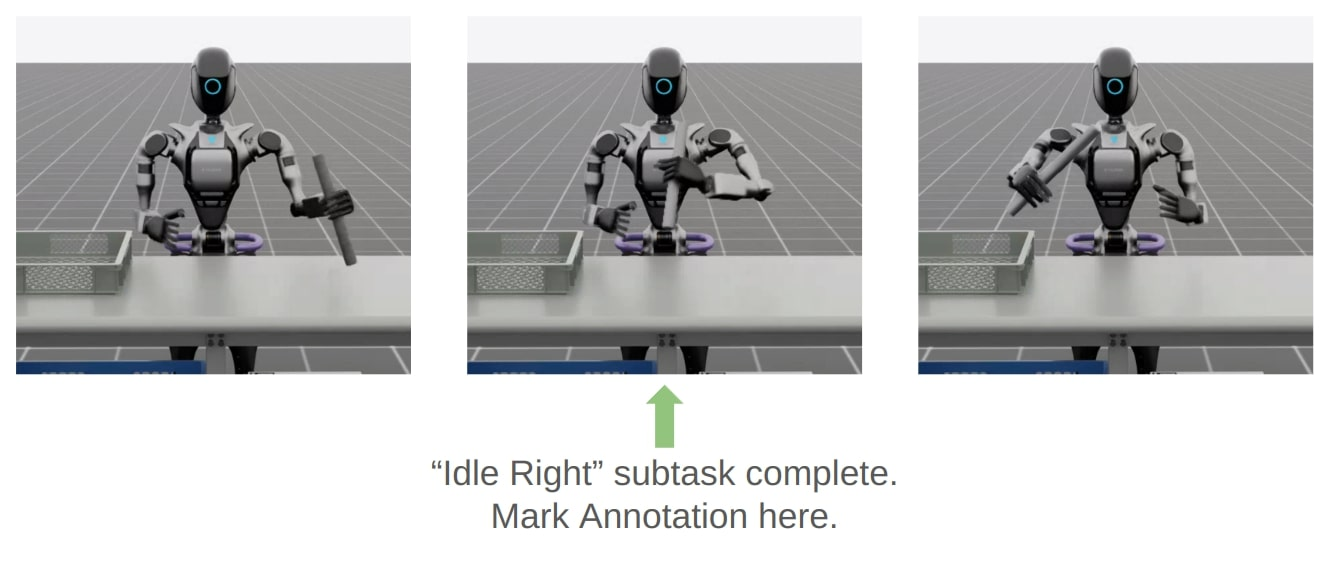
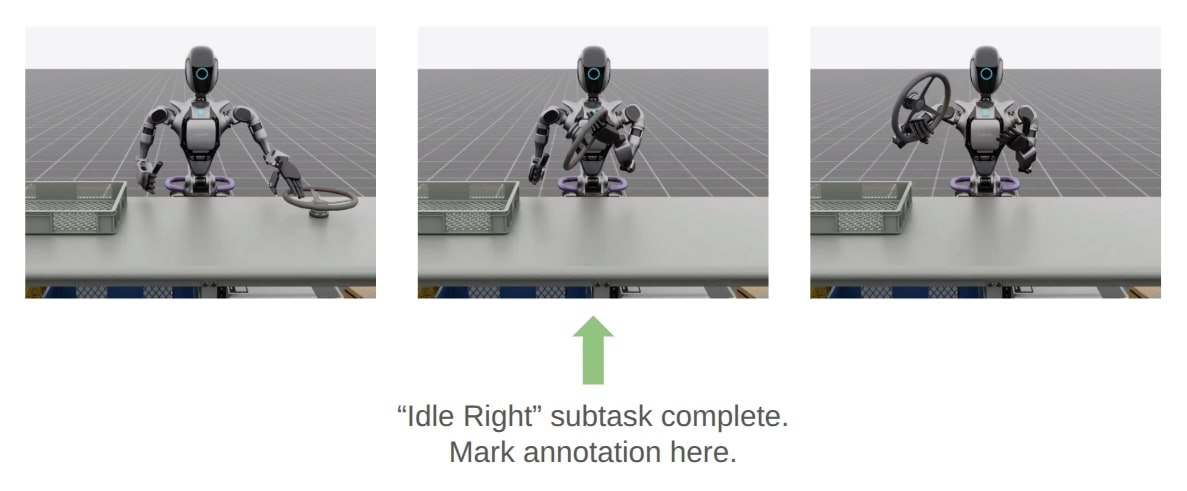
Updates pick place env to use steering wheel asset (#447)
<!--
Thank you for your interest in sending a pull request. Please make sure
to check the contribution guidelines.

Link:
https://isaac-sim.github.io/IsaacLab/main/source/refs/contributing.html
-->

This change updates the Isaac-PickPlace-GR1T2-Abs-v0 env to use a
steering wheel asset instead of a metal rod. The steering wheel asset is
easier to grasp.

Changes:

1. Update Isaac-PickPlace-GR1T2-Abs-v0 to use steering wheel asset
2. Update Mimic docs to reflect the change

Fixes # (issue)

Fixes poor graspability of the object once it falls in the
Isaac-PickPlace-GR1T2-Abs-v0 env.

<!-- As you go through the list, delete the ones that are not
applicable. -->

- New feature (non-breaking change which adds functionality)
- This change requires a documentation update

- [x] I have run the [`pre-commit` checks](https://pre-commit.com/) with
`./isaaclab.sh --format`
- [x] I have made corresponding changes to the documentation
- [x] My changes generate no new warnings
- [ ] I have added tests that prove my fix is effective or that my
feature works
- [ ] I have updated the changelog and the corresponding version in the
extension's `config/extension.toml` file
- [ ] I have added my name to the `CONTRIBUTORS.md` or my name already
exists there

<!--
As you go through the checklist above, you can mark something as done by
putting an x character in it

For example,
- [x] I have done this task
- [ ] I have not done this task
-->

---------

Changed region(s): [[0.0, 0.0611, 0.9975, 0.7026], [0.3117, 0.7943, 0.6858, 0.947]]

diff --git a/source/isaaclab_tasks/isaaclab_tasks/manager_based/manipulation/pick_place/mdp/terminations.py b/source/isaaclab_tasks/isaaclab_tasks/manager_based/manipulation/pick_place/mdp/terminations.py
@@ -26,15 +26,15 @@ if TYPE_CHECKING:
     from isaaclab.envs import ManagerBasedRLEnv
 
 
-def task_done(
+def task_done_pick_place(
     env: ManagerBasedRLEnv,
     object_cfg: SceneEntityCfg = SceneEntityCfg("object"),
     right_wrist_max_x: float = 0.26,
-    min_x: float = 0.30,
-    max_x: float = 0.95,
-    min_y: float = 0.25,
-    max_y: float = 0.66,
-    min_height: float = 1.13,
+    min_x: float = 0.40,
+    max_x: float = 0.85,
+    min_y: float = 0.35,
+    max_y: float = 0.60,
+    max_height: float = 1.10,
     min_vel: float = 0.20,
 ) -> torch.Tensor:
     """Determine if the object placement task is complete.
@@ -53,7 +53,7 @@ def task_done(
         max_x: Maximum x position of the object for task completion.
         min_y: Minimum y position of the object for task completion.
         max_y: Maximum y position of the object for task completion.
-        min_height: Minimum height (z position) of the object for task completion.
+        max_height: Maximum height (z position) of the object for task completion.
         min_vel: Minimum velocity magnitude of the object for task completion.
 
     Returns:
@@ -63,10 +63,10 @@ def task_done(
     object: RigidObject = env.scene[object_cfg.name]
 
     # Extract wheel position relative to environment origin
-    wheel_x = object.data.root_pos_w[:, 0] - env.scene.env_origins[:, 0]
-    wheel_y = object.data.root_pos_w[:, 1] - env.scene.env_origins[:, 1]
-    wheel_height = object.data.root_pos_w[:, 2] - env.scene.env_origins[:, 2]
-    wheel_vel = torch.abs(object.data.root_vel_w)
+    object_x = object.data.root_pos_w[:, 0] - env.scene.env_origins[:, 0]
+    object_y = object.data.root_pos_w[:, 1] - env.scene.env_origins[:, 1]
+    object_height = object.data.root_pos_w[:, 2] - env.scene.env_origins[:, 2]
+    object_vel = torch.abs(object.data.root_vel_w)
 
     # Get right wrist position relative to environment origin
     robot_body_pos_w = env.scene["robot"].data.body_pos_w
@@ -74,15 +74,15 @@ def task_done(
     right_wrist_x = robot_body_pos_w[:, right_eef_idx, 0] - env.scene.env_origins[:, 0]
 
     # Check all success conditions and combine with logical AND
-    done = wheel_x < max_x
-    done = torch.logical_and(done, wheel_x > min_x)
-    done = torch.logical_and(done, wheel_y < max_y)
-    done = torch.logical_and(done, wheel_y > min_y)
-    done = torch.logical_and(done, wheel_height < min_height)
+    done = object_x < max_x
+    done = torch.logical_and(done, object_x > min_x)
+    done = torch.logical_and(done, object_y < max_y)
+    done = torch.logical_and(done, object_y > min_y)
+    done = torch.logical_and(done, object_height < max_height)
     done = torch.logical_and(done, right_wrist_x < right_wrist_max_x)
-    done = torch.logical_and(done, wheel_vel[:, 0] < min_vel)
-    done = torch.logical_and(done, wheel_vel[:, 1] < min_vel)
-    done = torch.logical_and(done, wheel_vel[:, 2] < min_vel)
+    done = torch.logical_and(done, object_vel[:, 0] < min_vel)
+    done = torch.logical_and(done, object_vel[:, 1] < min_vel)
+    done = torch.logical_and(done, object_vel[:, 2] < min_vel)
 
     return done
 
@@ -108,6 +108,7 @@ def task_done_nut_pour(
 
     This function checks whether all success conditions for the task have been met:
     1. The factory nut is in the sorting bowl
+    2. The sorting beaker is in the sorting bin
     3. The sorting bowl is placed on the sorting scale
 
     Args:

diff --git a/source/isaaclab_tasks/isaaclab_tasks/manager_based/manipulation/pick_place/pickplace_gr1t2_env_cfg.py b/source/isaaclab_tasks/isaaclab_tasks/manager_based/manipulation/pick_place/pickplace_gr1t2_env_cfg.py
@@ -31,7 +31,7 @@ from isaaclab.managers import TerminationTermCfg as DoneTerm
 from isaaclab.scene import InteractiveSceneCfg
 from isaaclab.sim.spawners.from_files.from_files_cfg import GroundPlaneCfg, UsdFileCfg
 from isaaclab.utils import configclass
-from isaaclab.utils.assets import ISAAC_NUCLEUS_DIR
+from isaaclab.utils.assets import ISAAC_NUCLEUS_DIR, ISAACLAB_NUCLEUS_DIR
 
 from . import mdp
 
@@ -54,24 +54,13 @@ class ObjectTableSceneCfg(InteractiveSceneCfg):
         ),
     )
 
-    # Object
     object = RigidObjectCfg(
         prim_path="{ENV_REGEX_NS}/Object",
-        init_state=RigidObjectCfg.InitialStateCfg(pos=[-0.35, 0.40, 1.1691], rot=[1, 0, 0, 0]),
-        spawn=sim_utils.CylinderCfg(
-            radius=0.018,
-            height=0.35,
+        init_state=RigidObjectCfg.InitialStateCfg(pos=[-0.45, 0.45, 0.9996], rot=[1, 0, 0, 0]),
+        spawn=UsdFileCfg(
+            usd_path=f"{ISAACLAB_NUCLEUS_DIR}/Mimic/pick_place_task/pick_place_assets/steering_wheel.usd",
+            scale=(0.75, 0.75, 0.75),
             rigid_props=sim_utils.RigidBodyPropertiesCfg(),
-            mass_props=sim_utils.MassPropertiesCfg(mass=0.3),
-            collision_props=sim_utils.CollisionPropertiesCfg(),
-            visual_material=sim_utils.PreviewSurfaceCfg(diffuse_color=(0.15, 0.15, 0.15), metallic=1.0),
-            physics_material=sim_utils.RigidBodyMaterialCfg(
-                friction_combine_mode="max",
-                restitution_combine_mode="min",
-                static_friction=0.9,
-                dynamic_friction=0.9,
-                restitution=0.0,
-            ),
         ),
     )
 
@@ -300,7 +289,7 @@ class TerminationsCfg:
         func=mdp.root_height_below_minimum, params={"minimum_height": 0.5, "asset_cfg": SceneEntityCfg("object")}
     )
 
-    success = DoneTerm(func=mdp.task_done)
+    success = DoneTerm(func=mdp.task_done_pick_place)
 
 
 @configclass
@@ -314,8 +303,8 @@ class EventCfg:
         mode="reset",
         params={
             "pose_range": {
-                "x": [-0.05, 0.0],
-                "y": [0.0, 0.05],
+                "x": [-0.01, 0.01],
+                "y": [-0.01, 0.01],
             },
             "velocity_range": {},
             "asset_cfg": SceneEntityCfg("object"),

diff --git a/docs/source/overview/teleop_imitation.rst b/docs/source/overview/teleop_imitation.rst
@@ -136,7 +136,7 @@ Pre-recorded demonstrations
 ^^^^^^^^^^^^^^^^^^^^^^^^^^^
 
 We provide a pre-recorded ``dataset.hdf5`` containing 10 human demonstrations for ``Isaac-Stack-Cube-Franka-IK-Rel-v0``
-`here <https://omniverse-content-production.s3-us-west-2.amazonaws.com/Assets/Isaac/5.0/Isaac/IsaacLab/Mimic/dataset.hdf5>`_.
+`here <https://omniverse-content-production.s3-us-west-2.amazonaws.com/Assets/Isaac/5.0/Isaac/IsaacLab/Mimic/franka_stack_datasets/dataset.hdf5>`_.
 This dataset may be downloaded and used in the remaining tutorial steps if you do not wish to collect your own demonstrations.
 
 .. note::
@@ -307,10 +307,10 @@ By inferencing using the generated model, we can visualize the results of the po
          --checkpoint /PATH/TO/desired_model_checkpoint.pth
 
 
-Demo: Data Generation and Policy Training for a Humanoid Robot
-~~~~~~~~~~~~~~~~~~~~~~~~~~~~~~~~~~~~~~~~~~~~~~~~~~~~~~~~~~~~~~
+Demo 1: Data Generation and Policy Training for a Humanoid Robot
+~~~~~~~~~~~~~~~~~~~~~~~~~~~~~~~~~~~~~~~~~~~~~~~~~~~~~~~~~~~~~~~~
 
-.. figure:: https://download.isaacsim.omniverse.nvidia.com/isaaclab/images/gr-1_pick_place.gif
+.. figure:: https://download.isaacsim.omniverse.nvidia.com/isaaclab/images/gr-1_steering_wheel_pick_place.gif
    :width: 100%
    :align: center
    :alt: GR-1 humanoid robot performing a pick and place task
@@ -352,11 +352,11 @@ This setup allows Isaac Lab Mimic to interpolate the right hand's trajectory acc
 Therefore, avoid moving the right hand while the left hand picks up the object and brings it to a stable position.
 
 
-.. |good_demo| image:: https://download.isaacsim.omniverse.nvidia.com/isaaclab/images/gr1_pick_place_good_human_demo.gif
+.. |good_demo| image:: https://download.isaacsim.omniverse.nvidia.com/isaaclab/images/gr-1_steering_wheel_pick_place_good_demo.gif
    :width: 49%
    :alt: GR-1 humanoid robot performing a good pick and place demonstration
 
-.. |bad_demo| image:: https://download.isaacsim.omniverse.nvidia.com/isaaclab/images/gr1_pick_place_bad_human_demo.gif
+.. |bad_demo| image:: https://download.isaacsim.omniverse.nvidia.com/isaaclab/images/gr-1_steering_wheel_pick_place_bad_demo.gif
    :width: 49%
    :alt: GR-1 humanoid robot performing a bad pick and place demonstration
 
@@ -459,7 +459,7 @@ Generate the dataset
 ^^^^^^^^^^^^^^^^^^^^
 
 If you skipped the prior collection and annotation step, download the pre-recorded annotated dataset ``dataset_annotated_gr1.hdf5`` from
-`here <https://omniverse-content-production.s3-us-west-2.amazonaws.com/Assets/Isaac/5.0/Isaac/IsaacLab/Mimic/dataset_annotated_gr1.hdf5>`_.
+`here <https://omniverse-content-production.s3-us-west-2.amazonaws.com/Assets/Isaac/5.0/Isaac/IsaacLab/Mimic/pick_place_datasets/dataset_annotated_gr1.hdf5>`_.
 Place the file under ``IsaacLab/datasets`` and run the following command to generate a new dataset with 1000 demonstrations.
 
 .. code:: bash
@@ -499,7 +499,7 @@ Visualize the results of the trained policy by running the following command, us
    --enable_pinocchio \
    --task Isaac-PickPlace-GR1T2-Abs-v0 \
    --num_rollouts 50 \
-   --horizon 250 \
+   --horizon 400 \
    --norm_factor_min <NORM_FACTOR_MIN> \
    --norm_factor_max <NORM_FACTOR_MAX> \
    --checkpoint /PATH/TO/desired_model_checkpoint.pth
@@ -507,7 +507,7 @@ Visualize the results of the trained policy by running the following command, us
 .. note::
    Change the ``NORM_FACTOR`` in the above command with the values generated in the training step.
 
-.. figure:: https://download.isaacsim.omniverse.nvidia.com/isaaclab/images/gr-1_pick_place_policy.gif
+.. figure:: https://download.isaacsim.omniverse.nvidia.com/isaaclab/images/gr-1_steering_wheel_pick_place_policy.gif
    :width: 100%
    :align: center
    :alt: GR-1 humanoid robot performing a pick and place task
@@ -516,8 +516,8 @@ Visualize the results of the trained policy by running the following command, us
    The trained policy performing the pick and place task in Isaac Lab.
 
 
-Demo: Visuomotor Policy for a Humanoid Robot
-~~~~~~~~~~~~~~~~~~~~~~~~~~~~~~~~~~~~~~~~~~~~
+Demo 2: Visuomotor Policy for a Humanoid Robot
+~~~~~~~~~~~~~~~~~~~~~~~~~~~~~~~~~~~~~~~~~~~~~~
 
 Download the Dataset
 ^^^^^^^^^^^^^^^^^^^^
@@ -525,6 +525,52 @@ Download the Dataset
 Download the pre-generated dataset from `here <https://download.isaacsim.omniverse.nvidia.com/isaaclab/dataset/generated_dataset_gr1_nut_pouring.hdf5>`_ and place it under ``IsaacLab/datasets/generated_dataset_gr1_nut_pouring.hdf5``.
 The dataset contains 1000 demonstrations of a humanoid robot performing a pouring/placing task that was
 generated using Isaac Lab Mimic for the ``Isaac-NutPour-GR1T2-Pink-IK-Abs-Mimic-v0`` task.
+
+.. hint::
+
+   If desired, data collection, annotation, and generation can be done using the same commands as the prior examples.
+   **Note that the following commands are only for your reference and are not required for this demo.**
+
+   To collect demonstrations:
+
+   .. code:: bash
+
+      ./isaaclab.sh -p scripts/tools/record_demos.py \
+      --device cpu \
+      --task Isaac-NutPour-GR1T2-Pink-IK-Abs-v0 \
+      --teleop_device handtracking \
+      --dataset_file ./datasets/dataset_gr1_nut_pouring.hdf5 \
+      --num_demos 5 --enable_pinocchio
+
+   Since this is a visuomotor environment, the ``--enable_cameras`` flag must be added to the annotation and data generation commands.
+
+   To annotate the demonstrations:
+
+   .. code:: bash
+
+      ./isaaclab.sh -p scripts/imitation_learning/isaaclab_mimic/annotate_demos.py \
+      --device cpu \
+      --enable_cameras \
+      --rendering_mode balanced \
+      --task Isaac-NutPour-GR1T2-Pink-IK-Abs-Mimic-v0 \
+      --input_file ./datasets/dataset_gr1_nut_pouring.hdf5 \
+      --output_file ./datasets/dataset_annotated_gr1_nut_pouring.hdf5 --enable_pinocchio
+
+   To generate the dataset:
+
+   .. code:: bash
+
+      ./isaaclab.sh -p scripts/imitation_learning/isaaclab_mimic/generate_dataset.py \
+      --device cpu \
+      --headless \
+      --enable_pinocchio \
+      --enable_cameras \
+      --rendering_mode balanced \
+      --task Isaac-NutPour-GR1T2-Pink-IK-Abs-Mimic-v0 \
+      --generation_num_trials 1000 \
+      --num_envs 5 \
+      --input_file ./datasets/dataset_annotated_gr1_nut_pouring.hdf5 \
+      --output_file ./datasets/generated_dataset_gr1_nut_pouring.hdf5
 
 
 Train a policy

diff --git a/source/isaaclab_tasks/docs/CHANGELOG.rst b/source/isaaclab_tasks/docs/CHANGELOG.rst
@@ -1,7 +1,7 @@
 Changelog
 ---------
 
-0.10.38 (2025-06-26)
+0.10.39 (2025-06-26)
 ~~~~~~~~~~~~~~~~~~~~
 
 Fixed
@@ -10,7 +10,7 @@ Fixed
 * Relaxed upper range pin for protobuf python dependency for more permissive installation.
 
 
-0.10.37 (2025-05-22)
+0.10.38 (2025-05-22)
 ~~~~~~~~~~~~~~~~~~~~
 
 Fixed
@@ -19,7 +19,7 @@ Fixed
 * Fixed redundant body_names assignment in rough_env_cfg.py for H1 robot.
 
 
-0.10.36 (2025-06-16)
+0.10.37 (2025-06-16)
 ~~~~~~~~~~~~~~~~~~~~
 
 Changed
@@ -28,7 +28,7 @@ Changed
 * Show available RL library configs on error message when an entry point key is not available for a given task.
 
 
-0.10.35 (2025-05-15)
+0.10.36 (2025-05-15)
 ~~~~~~~~~~~~~~~~~~~~
 
 Added
@@ -38,7 +38,7 @@ Added
   implements assembly tasks to insert pegs into their corresponding sockets.
 
 
-0.10.34 (2025-05-21)
+0.10.35 (2025-05-21)
 ~~~~~~~~~~~~~~~~~~~~
 
 Added
@@ -46,6 +46,15 @@ Added
 
 * Added unit tests for benchmarking environments with configurable settings. Output KPI payloads
   can be pushed to a visualization dashboard to track improvements or regressions.
+
+
+0.10.34 (2025-05-22)
+~~~~~~~~~~~~~~~~~~~~
+
+Changed
+^^^^^^^
+
+* Changed ``Isaac-PickPlace-GR1T2-Abs-v0`` object asset to a steering wheel.
 
 
 0.10.33 (2025-05-12)
